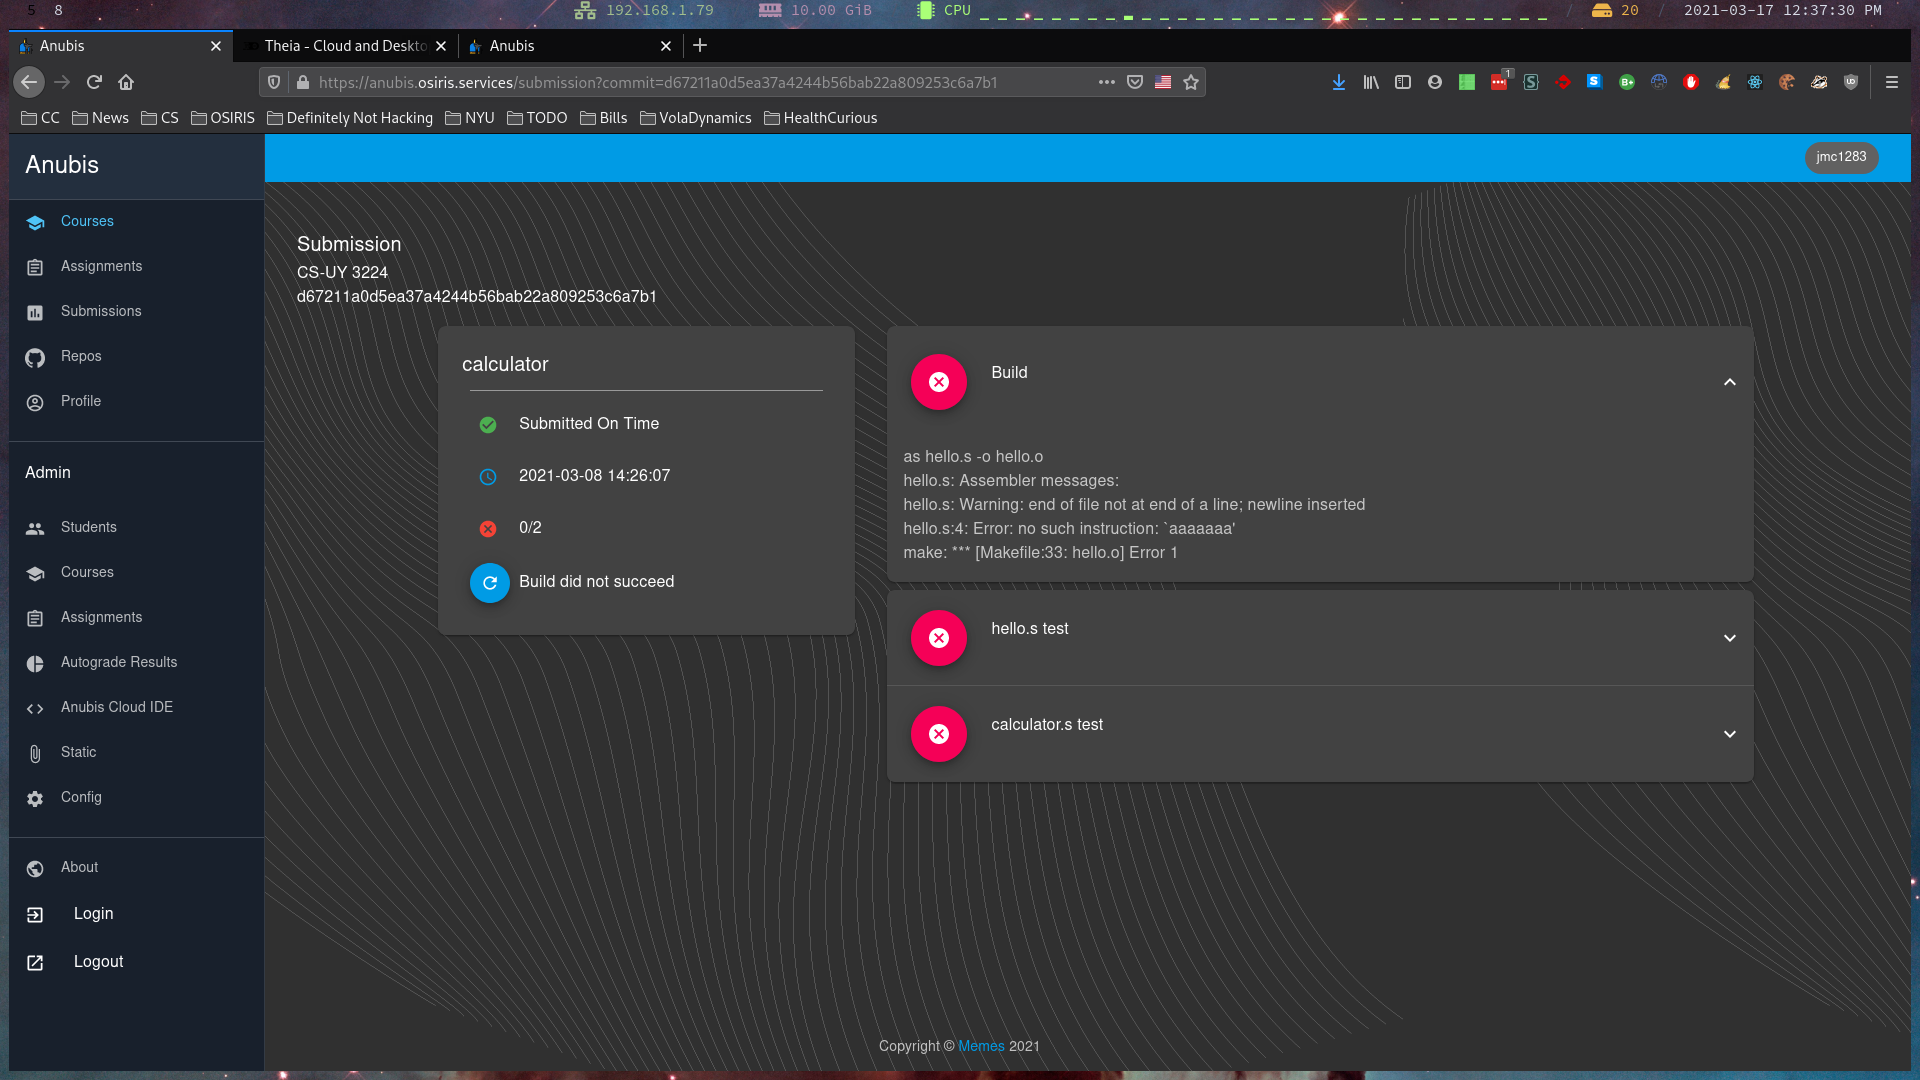
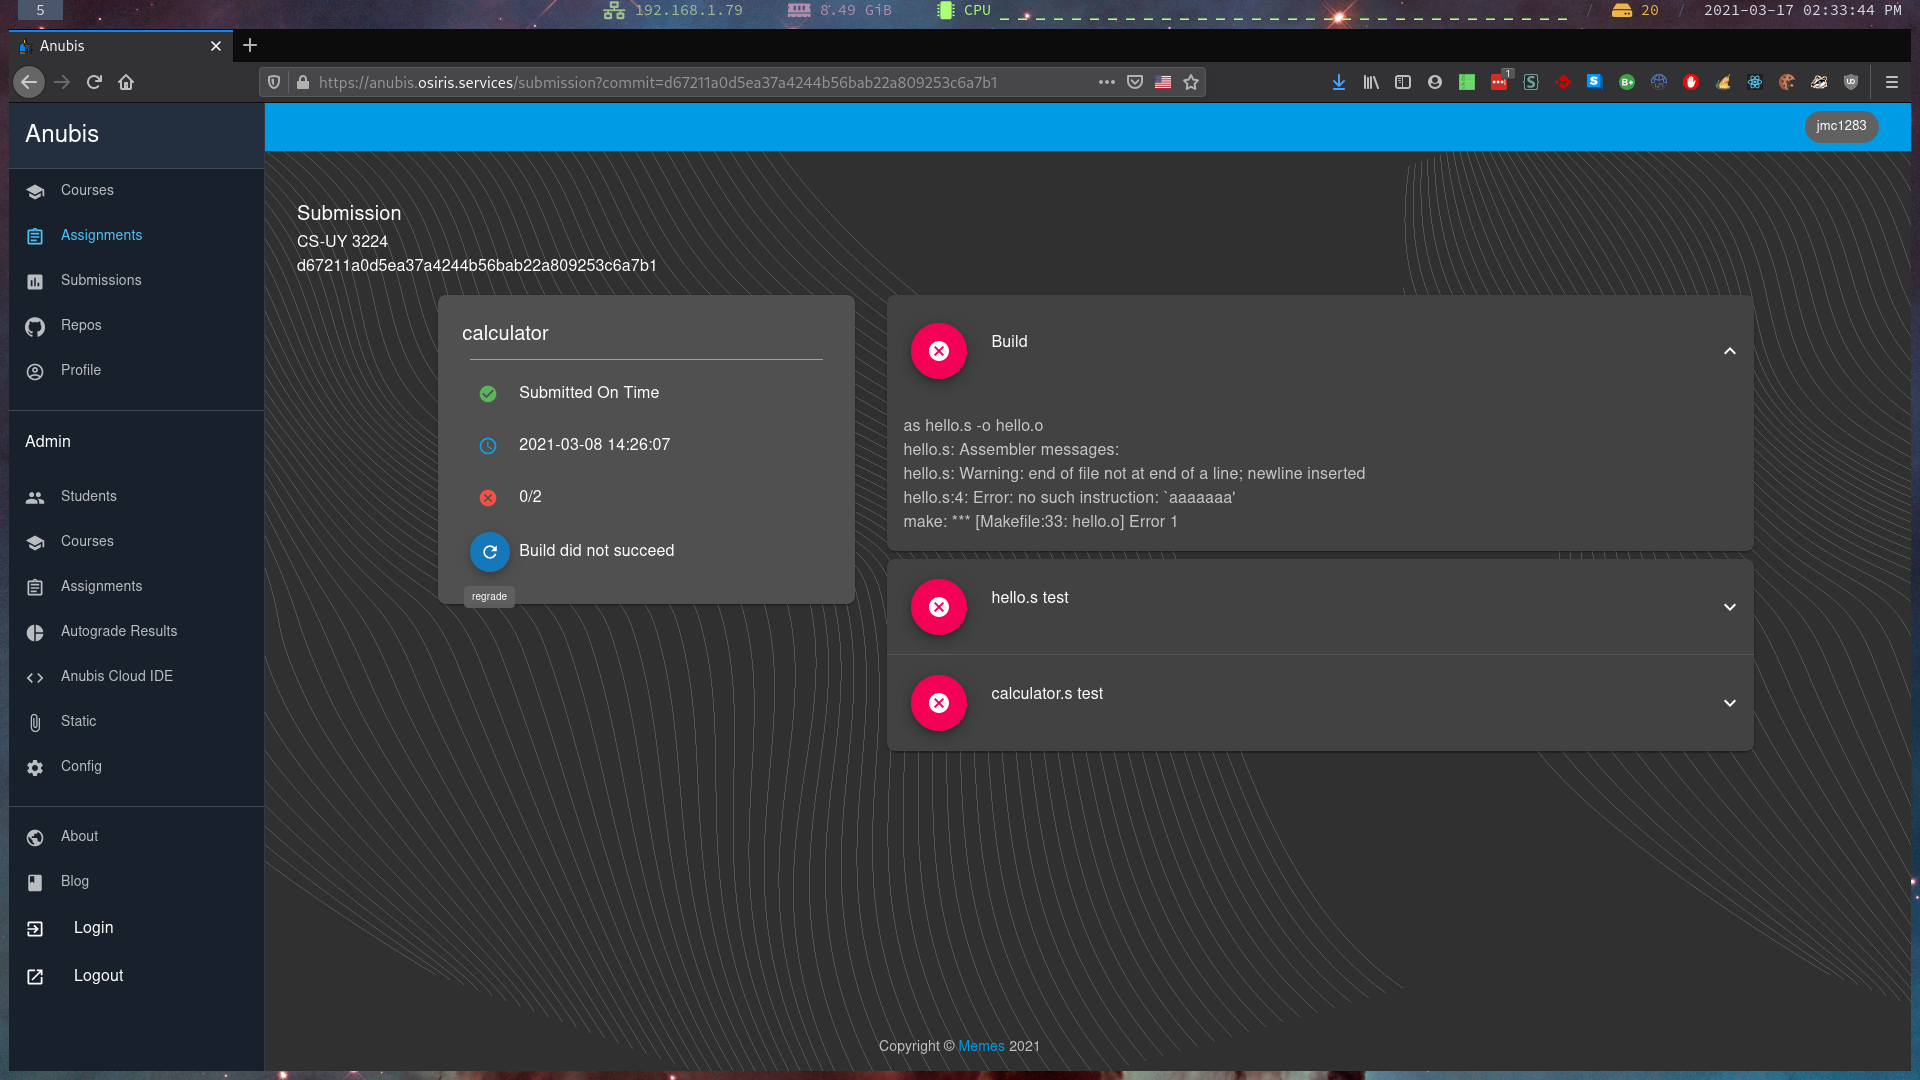
FIX optomize dockerfiles and fix animations

diff --git a/web/src/Components/Public/Submission/SubmissionSummary.jsx b/web/src/Components/Public/Submission/SubmissionSummary.jsx
@@ -21,6 +21,7 @@ import TableCell from '@material-ui/core/TableCell';
 import Divider from '@material-ui/core/Divider';
 import {useSnackbar} from 'notistack';
 import clsx from 'clsx';
+import Fab from '@material-ui/core/Fab';
 
 const useStyles = makeStyles((theme) => ({
   root: {
@@ -40,7 +41,7 @@ const useStyles = makeStyles((theme) => ({
   },
 }));
 
-export default function SubmissionSummary({submission, regrade, stop = false}) {
+export default function SubmissionSummary({submission, regrade, stop}) {
   const classes = useStyles();
   const {enqueueSnackbar} = useSnackbar();
 
@@ -63,6 +64,28 @@ export default function SubmissionSummary({submission, regrade, stop = false}) {
 
   const testsPassed = submission.tests.filter((test) => test.result.passed).length;
   const totalTests = submission.tests.length;
+
+  const ReloadIcon = () => (
+    <Tooltip title={'regrade'}>
+      <Fab
+        onClick={() => regrade(submission.commitHash, enqueueSnackbar)}
+        size={'small'}
+        color={'primary'}
+      >
+        <RefreshIcon/>
+      </Fab>
+    </Tooltip>
+  );
+
+  const LoadingIcon = () => (
+    <Tooltip title={submission.state}>
+      <IconButton
+        onClick={() => regrade(submission.commitHash, enqueueSnackbar)}
+      >
+        <CircularProgress size="1em"/>
+      </IconButton>
+    </Tooltip>
+  );
 
   return (
     <Card className={classes.root}>
@@ -134,14 +157,11 @@ export default function SubmissionSummary({submission, regrade, stop = false}) {
             {/* Submission state */}
             <ListItem>
               <ListItemIcon>
-                <Tooltip title={!submission.processed ? submission.state : 'regrade'}>
-                  <IconButton component="div" onClick={() =>
-                    regrade(submission.commitHash, enqueueSnackbar)}>
-                    {(submission.processed && !stop) ?
-                      <RefreshIcon color={'primary'}/> :
-                      <CircularProgress size="1em"/>}
-                  </IconButton>
-                </Tooltip>
+                {stop ? <ReloadIcon/> : (
+                  submission.processed ?
+                    <ReloadIcon/> :
+                    <LoadingIcon/>
+                )}
               </ListItemIcon>
               <ListItemText primary={submission.state}/>
             </ListItem>

diff --git a/web/src/Components/Public/Submission/SubmissionTests.jsx b/web/src/Components/Public/Submission/SubmissionTests.jsx
@@ -50,17 +50,25 @@ export default function SubmissionTests({tests, stop}) {
             <div className={classes.wrapper}>
               <Fab
                 aria-label="save"
-                color={test.result.passed === false ? 'secondary' : 'primary'}
+                color={stop ? 'secondary' : (test.result.passed === false ? 'secondary' : 'primary')}
               >
-                {test.result.passed === null ? (
-                  <AssessmentIcon/>
-                ) : (test.result.passed === true && !stop) ? (
-                  <CheckCircleIcon/>
-                ) : (test.result.passed === false || stop) ? (
+                {stop ? (
                   <CancelIcon/>
-                ) : null}
+                ) : (
+                  <React.Fragment>
+                    {test.result.passed === null ? (
+                      <AssessmentIcon/>
+                    ) : (test.result.passed === true) ? (
+                      <CheckCircleIcon/>
+                    ) : (test.result.passed === false) ? (
+                      <CancelIcon/>
+                    ) : null}
+                  </React.Fragment>
+                )}
               </Fab>
-              {test.result.passed === null && <CircularProgress size={68} className={classes.fabProgress}/>}
+              {stop ? null : (
+                test.result.passed === null && <CircularProgress size={68} className={classes.fabProgress}/>
+              )}
             </div>
             <Typography className={classes.heading}>{test.test.name}</Typography>
           </AccordionSummary>

diff --git a/web/src/Pages/Public/Submission.jsx b/web/src/Pages/Public/Submission.jsx
@@ -97,14 +97,21 @@ export default function Submission() {
       const newSubmission = translateSubmission(data.submission);
       setSubmission(newSubmission);
 
+      if (newSubmission.error || newSubmission.build.passed === false) {
+        setErrorStop(true);
+        return;
+      }
+
+      setErrorStop(false);
+
       if (!submission) {
         return continueSubscribe();
       }
 
       if (submission.build.passed !== newSubmission.build.passed) {
-        if (newSubmission.build.passed) {
+        if (newSubmission.build.passed === true) {
           enqueueSnackbar('Build passed', {variant: 'success'});
-        } else {
+        } else if (newSubmission.build.passed === false) {
           setErrorStop(true);
           return enqueueSnackbar('Build failed', {variant: 'error'});
         }
@@ -114,7 +121,7 @@ export default function Submission() {
         const oldTest = submission.tests[index];
         const newTest = newSubmission.tests[index];
 
-        if (oldTest.result.passed !== newTest.result.passed) {
+        if (oldTest.result.passed === null && newTest.result.passed !== null) {
           enqueueSnackbar(
             `${newTest.test.name} ${newTest.result.passed ? 'passed' : 'failed'}`,
             {variant: (newTest.result.passed ? 'success' : 'error')});
@@ -191,3 +198,4 @@ export default function Submission() {
     </Grid>
   );
 }
+

diff --git a/web/src/Components/Public/IDE/IDEDialog.jsx b/web/src/Components/Public/IDE/IDEDialog.jsx
@@ -140,8 +140,7 @@ export default function IDEDialog({selectedTheia, setSelectedTheia}) {
         setSession(data.session);
       }
       if (data?.session?.autosave !== undefined) {
-        console.log('autosave', data.session.autosave);
-        setAutosaveEnabled(data.autosaveEnabled);
+        setAutosaveEnabled(data.session.autosave);
       }
     }).catch(standardErrorHandler(enqueueSnackbar));
   }, [selectedTheia]);

diff --git a/web/src/Pages/Public/Blog.jsx b/web/src/Pages/Public/Blog.jsx
@@ -58,6 +58,7 @@ export default function Blog() {
           <CardHeader
             avatar={<Avatar src={'/logo512.png'}/>}
             title={'The Elevator Pitch for Anubis'}
+            titleTypographyProps={{variant: 'h6'}}
             subheader={'2021-03-17'}
           />
           <CardContent>

diff --git a/api/anubis/models/__init__.py b/api/anubis/models/__init__.py
@@ -448,6 +448,7 @@ class Submission(db.Model):
             "state": self.state,
             "created": str(self.created),
             "last_updated": str(self.last_updated),
+            "error": self.errors is not None,
         }
 
     @property

diff --git a/api/anubis/rpc/pipeline.py b/api/anubis/rpc/pipeline.py
@@ -7,7 +7,7 @@ from kubernetes import config, client
 
 from anubis.models import Config, Submission
 from anubis.utils.logger import logger
-
+from anubis.utils.data import is_debug
 
 def create_pipeline_job_obj(client, submission):
     """
